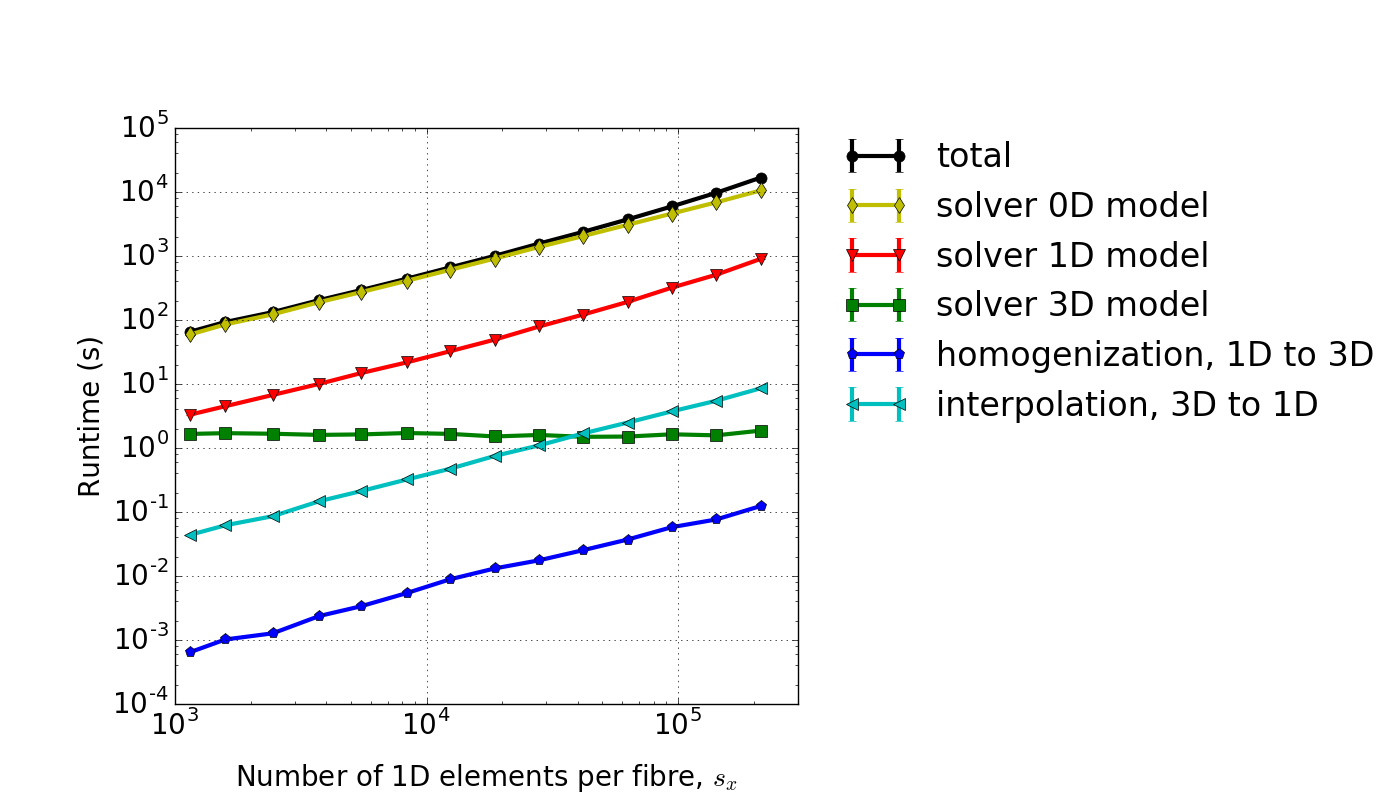
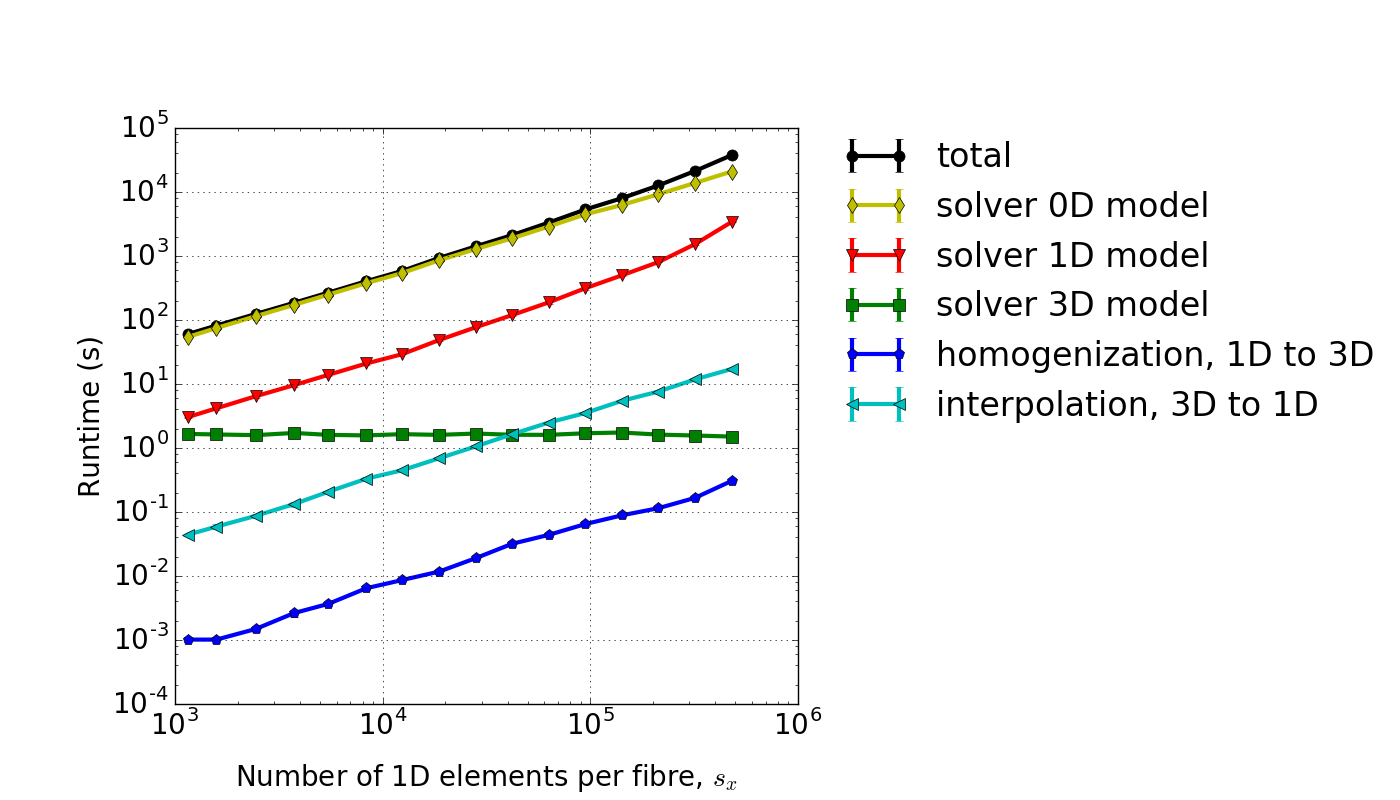
Update paper_std

diff --git a/paper_std/plot_paper.py b/paper_std/plot_paper.py
@@ -26,8 +26,8 @@ outlier_top = 1
 outlier_bottom = 0
   
 # read csv file
-report_filename = "paper_std.csv"
-report_filename = "duration.00000.csv"
+report_filename = "paper_std2.csv"
+#report_filename = "duration.00000.csv"
 
 
 caption = u'Runtime over problem size, neon'
@@ -387,7 +387,7 @@ for plotkey in plotkeys:
 ax = plt.gca()
 ax.set_xscale('log', basey=10) 
 ax.set_yscale('log', basey=10) 
-ax.set_xlim([1e3, 3e5])
+#ax.set_xlim([1e3, 3e5])
 #ax.set_xscale('log', basey=2) 
 #ticks = list(np.linspace(10**4, 10**5, 10)) + list(np.linspace(10**5, 10**6, 10))
 #ax.set_xticks(ticks)

diff --git a/paper_weak_scaling_with3d/plot.py b/paper_weak_scaling_with3d/plot.py
@@ -494,6 +494,7 @@ print "xticks:",xticks
 ax2.set_xticks(xticks)
 ax2.set_xticklabels(xlabels)
 ax2.set_xlabel(r"Number of nodes (24 processes per node)")
+ax2.xaxis.set_label_coords(0.5, 1.08)
 
 #plt.gcf().subplots_adjust(right=0.89)
 if not paper_version:
@@ -830,6 +831,8 @@ ax2.set_xlim(ax.get_xlim())
 ax2.set_xticks(xticks)
 ax2.set_xticklabels(xlabels)
 ax2.set_xlabel(r"Number of nodes (24 processes per node)")
+ax2.xaxis.set_label_coords(0.5, 1.08)
+
 
 plt.gcf().subplots_adjust(right=0.89)
 if not paper_version:
